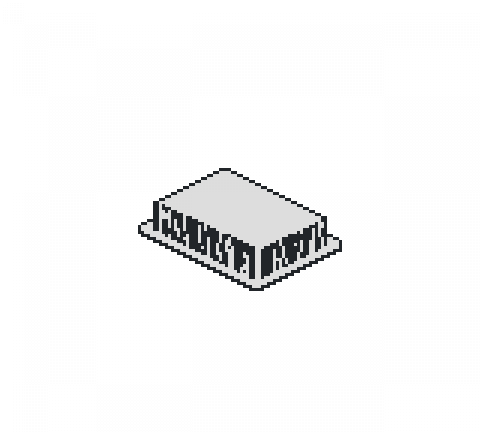
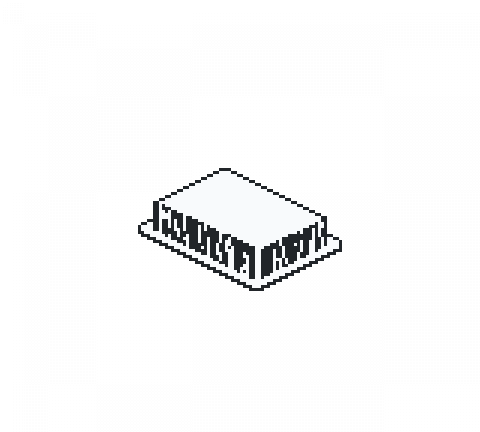
name scritto

Changed region(s): [[0.2812, 0.3912, 0.7188, 0.662]]

diff --git a/style.css b/style.css
@@ -1,21 +1,29 @@
 body{
-    background-color: #dddddd;
+    background-color: #f8fafc;
 }
 
 /* NAME */
-.container-name{
+.col-name h1 {
+    font-family: 'Monofett', cursive;
+    color: #212529;
+    font-size: 80px;
+    letter-spacing: 4px;
+}
+
+/* MAIN PROJECTS */
+.container-main-projects{
     background-color: #212529;
-    border: 2rem solid #dddddd;
+    border: 2rem solid #f8fafc;
 }
 
 @media screen and (max-width: 992px) {
-    .container-name {
-        margin-bottom: 150px;
+    .container-main-projects {
+        margin-bottom: 50px;
     }
 }
 
-/* PROJECTS */
-.projects-title{
+/*SMALL PROJECTS */
+.small-projects-title{
     font-family: 'Monofett', cursive;
     color: #212529;
     font-size: 64px;
@@ -100,7 +108,7 @@ body{
     background-image: url(./media/menu-box.png);
     background-position: center;
     background-size: cover;
-    color: #dddddd;
+    color: #f8fafc;
     padding: 20px 0 0 0;
     transition: 0.4s;
 }
@@ -114,7 +122,7 @@ body{
     background-image: url(./media/menu-box.png);
     background-position: center;
     background-size: cover;
-    color: #dddddd;
+    color: #f8fafc;
     padding: 20px 0 0 0;
     transition: 0.4s;
 }
@@ -128,7 +136,7 @@ body{
     background-image: url(./media/menu-box.png);
     background-position: center;
     background-size: cover;
-    color: #dddddd;
+    color: #f8fafc;
     padding: 20px 0 0 0;
     transition: 0.4s;
     font-size: 20px;
@@ -143,14 +151,14 @@ body{
     background-image: url(./media/menu-box.png);
     background-position: center;
     background-size: cover;
-    color: #dddddd;
+    color: #f8fafc;
     padding: 20px 0 0 0;
     font-size: 20px;
     transition: 0.4s;
 }
 
 .menu a {
-    color: #dddddd;
+    color: #f8fafc;
     text-decoration: none;
     transition: 0.4s;
 }
@@ -192,11 +200,11 @@ body{
 /* ABOUT ME */
 .container-about{
     background-color: #212529;
-    border: 2rem solid #dddddd;
+    border: 2rem solid #f8fafc;
 }
 
 @media screen and (max-width: 992px) {
     .container-about {
-        margin-top: 200px;
+        margin-top: 300px;
     }
 }

diff --git a/index.html b/index.html
@@ -16,9 +16,20 @@
   </head>
   <body>
 
+    <div class="container container-name vh-100">
+      <div class="row h-100 justify-content-center align-items-center">
+        <div class="col-12 col-name">
+          <h1 class="text-center">Gabriele Greco</h1>
+        </div>
+      </div>
+    </div>
 
 
-    <div class="container-fluid vh-100 container-name">
+
+
+
+    <!-- PROJECTS -->
+    <div class="container-fluid vh-100 container-main-projects">
       <div class="row p-5 h-100">
         <div class="col-12 col-md-6 p-3">
   
@@ -29,12 +40,12 @@
       </div>
     </div>
 
-    <!-- PROJECTS -->
-    <div class="container vh-100 container-projects">
+    <!-- SMALL PROJECTS -->
+    <div class="container vh-100 container-small-projects">
       <div class="row align-items-center justify-content-center h-100">
 
         <div class="col-12">
-          <h2 class="text-center projects-title">Projects</h2>
+          <h2 class="text-center small-projects-title">small Projects</h2>
         </div>
 
         <div class="col-12 col-lg-6 d-flex justify-content-center align-items-center chest-col">  
